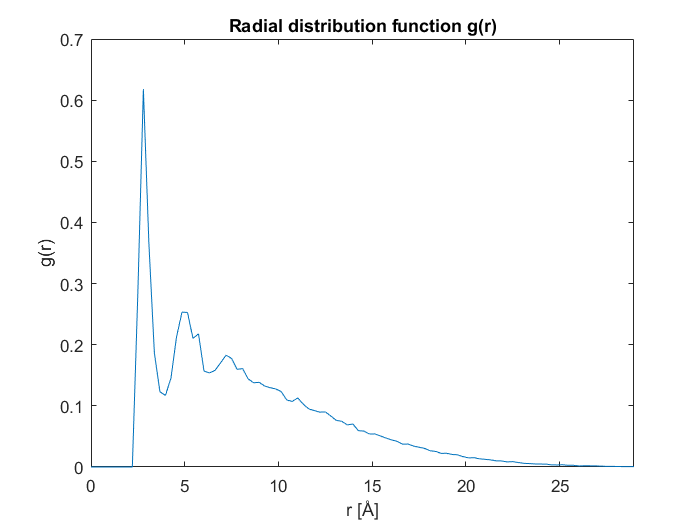
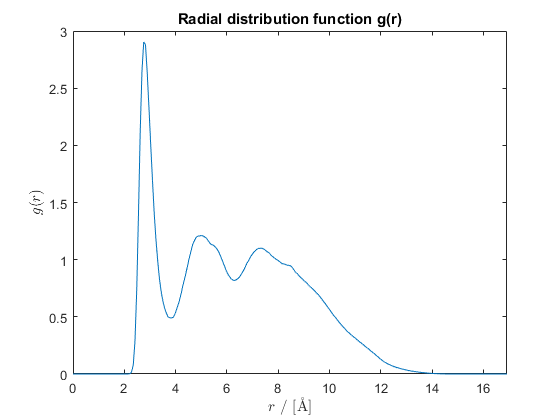
updated 7

diff --git a/code/Task7/MD_main.c b/code/Task7/MD_main.c
@@ -245,7 +245,7 @@ int main()
 
 
     // Create Histogram
-
+    int n_part=0;
     for (int i = 1; i < nbr_of_timesteps; i++)
     {
         for (int j = 1 ; j < nbr_of_particles; j++) {
@@ -260,7 +260,11 @@ int main()
                 double distance_sq = boundary_condition_dist_sq(q1, q2, cell_length);
                 double dist = sqrt(distance_sq);
                 int bin = get_bin(dist,min,max,d_r);
-                bins2[bin] += 2;
+                if (bin < k_bins)
+                {
+                    bins2[bin] += 2;
+                    n_part+=2;
+                }
             }
         }
     }
@@ -273,7 +277,9 @@ int main()
 
 
 
+
     /* Save data to file*/
+    printf("%i\n",n_part );
     file = fopen("histogram.dat","w");
     for (int i = 0; i < k_bins; i ++) {
         fprintf(file, "%e \t %i \t %i \t %e \n",d_r*(i-0.5), bins[i],bins2[i], Nideal[i]);
@@ -316,8 +322,8 @@ double boundary_condition_dist_sq(double u1[3], double u2[3], double L)
 	    u1[i] -= floor(u1[i]);
         u2[i] -= floor(u2[i]);
 	    d[i] = u1[i] - u2[i];
-	    //d[i] -= (double)((int)floor(d[i]+0.5));
-        d[i] -= (double)((int)floor(d[i]));
+	    d[i] -= (double)((int)floor(d[i]+0.5));
+        //d[i] -= (double)((int)floor(d[i]));
 	}
 
 	double sum = 0.0;
